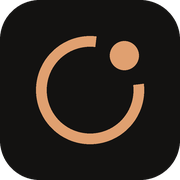
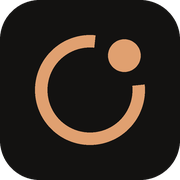
brand: heavier ≥64 px weights (stroke 7, dot 9) so the home-screen tile matches the header lockup

diff --git a/brand/contact-sheet.html b/brand/contact-sheet.html
@@ -20,5 +20,5 @@
 <body>
 <h1>Mote - logo candidates</h1>
 <table><thead><tr><th></th><th scope="col">light</th><th scope="col">32</th><th scope="col">16</th><th scope="col">dark</th><th scope="col">32</th><th scope="col">16</th></tr></thead>
-<tbody><tr><th scope="row">the studio's serif m (current icon)</th><td><svg viewBox="0 0 100 100" width="96" height="96" aria-hidden="true" style="background:#faf9f7;color:#a34a1f;border-radius:21px"><text x="50" y="50" font-family="Georgia,&apos;Times New Roman&apos;,serif" font-size="74" text-anchor="middle" dominant-baseline="central" fill="currentColor">m</text></svg></td><td><svg viewBox="0 0 100 100" width="32" height="32" aria-hidden="true" style="background:#faf9f7;color:#a34a1f;border-radius:7px"><text x="50" y="50" font-family="Georgia,&apos;Times New Roman&apos;,serif" font-size="74" text-anchor="middle" dominant-baseline="central" fill="currentColor">m</text></svg></td><td><svg viewBox="0 0 100 100" width="16" height="16" aria-hidden="true" style="background:#faf9f7;color:#a34a1f;border-radius:4px"><text x="50" y="50" font-family="Georgia,&apos;Times New Roman&apos;,serif" font-size="74" text-anchor="middle" dominant-baseline="central" fill="currentColor">m</text></svg></td><td><svg viewBox="0 0 100 100" width="96" height="96" aria-hidden="true" style="background:#131211;color:#e0a070;border-radius:21px"><text x="50" y="50" font-family="Georgia,&apos;Times New Roman&apos;,serif" font-size="74" text-anchor="middle" dominant-baseline="central" fill="currentColor">m</text></svg></td><td><svg viewBox="0 0 100 100" width="32" height="32" aria-hidden="true" style="background:#131211;color:#e0a070;border-radius:7px"><text x="50" y="50" font-family="Georgia,&apos;Times New Roman&apos;,serif" font-size="74" text-anchor="middle" dominant-baseline="central" fill="currentColor">m</text></svg></td><td><svg viewBox="0 0 100 100" width="16" height="16" aria-hidden="true" style="background:#131211;color:#e0a070;border-radius:4px"><text x="50" y="50" font-family="Georgia,&apos;Times New Roman&apos;,serif" font-size="74" text-anchor="middle" dominant-baseline="central" fill="currentColor">m</text></svg></td></tr><tr><th scope="row">the mote</th><td><svg viewBox="0 0 100 100" width="96" height="96" aria-hidden="true" style="background:#faf9f7;color:#a34a1f;border-radius:21px"><circle cx="50" cy="50" r="14" fill="currentColor"/></svg></td><td><svg viewBox="0 0 100 100" width="32" height="32" aria-hidden="true" style="background:#faf9f7;color:#a34a1f;border-radius:7px"><circle cx="50" cy="50" r="14" fill="currentColor"/></svg></td><td><svg viewBox="0 0 100 100" width="16" height="16" aria-hidden="true" style="background:#faf9f7;color:#a34a1f;border-radius:4px"><circle cx="50" cy="50" r="14" fill="currentColor"/></svg></td><td><svg viewBox="0 0 100 100" width="96" height="96" aria-hidden="true" style="background:#131211;color:#e0a070;border-radius:21px"><circle cx="50" cy="50" r="14" fill="currentColor"/></svg></td><td><svg viewBox="0 0 100 100" width="32" height="32" aria-hidden="true" style="background:#131211;color:#e0a070;border-radius:7px"><circle cx="50" cy="50" r="14" fill="currentColor"/></svg></td><td><svg viewBox="0 0 100 100" width="16" height="16" aria-hidden="true" style="background:#131211;color:#e0a070;border-radius:4px"><circle cx="50" cy="50" r="14" fill="currentColor"/></svg></td></tr><tr><th scope="row">the boundary ring (adopted)</th><td><svg viewBox="0 0 100 100" width="96" height="96" aria-hidden="true" style="background:#faf9f7;color:#a34a1f;border-radius:21px"><circle cx="50" cy="50" r="27" fill="none" stroke="currentColor" stroke-width="6" stroke-dasharray="133.65 36.00" stroke-dashoffset="151.65" transform="rotate(-45 50 50)"/><circle cx="69.09" cy="30.91" r="8" fill="currentColor"/></svg></td><td><svg viewBox="0 0 100 100" width="32" height="32" aria-hidden="true" style="background:#faf9f7;color:#a34a1f;border-radius:7px"><circle cx="50" cy="50" r="27" fill="none" stroke="currentColor" stroke-width="8" stroke-dasharray="131.65 38.00" stroke-dashoffset="150.65" transform="rotate(-45 50 50)"/><circle cx="69.09" cy="30.91" r="9.5" fill="currentColor"/></svg></td><td><svg viewBox="0 0 100 100" width="16" height="16" aria-hidden="true" style="background:#faf9f7;color:#a34a1f;border-radius:4px"><circle cx="50" cy="50" r="27" fill="none" stroke="currentColor" stroke-width="11" stroke-dasharray="127.65 42.00" stroke-dashoffset="148.65" transform="rotate(-45 50 50)"/><circle cx="69.09" cy="30.91" r="11" fill="currentColor"/></svg></td><td><svg viewBox="0 0 100 100" width="96" height="96" aria-hidden="true" style="background:#131211;color:#e0a070;border-radius:21px"><circle cx="50" cy="50" r="27" fill="none" stroke="currentColor" stroke-width="6" stroke-dasharray="133.65 36.00" stroke-dashoffset="151.65" transform="rotate(-45 50 50)"/><circle cx="69.09" cy="30.91" r="8" fill="currentColor"/></svg></td><td><svg viewBox="0 0 100 100" width="32" height="32" aria-hidden="true" style="background:#131211;color:#e0a070;border-radius:7px"><circle cx="50" cy="50" r="27" fill="none" stroke="currentColor" stroke-width="8" stroke-dasharray="131.65 38.00" stroke-dashoffset="150.65" transform="rotate(-45 50 50)"/><circle cx="69.09" cy="30.91" r="9.5" fill="currentColor"/></svg></td><td><svg viewBox="0 0 100 100" width="16" height="16" aria-hidden="true" style="background:#131211;color:#e0a070;border-radius:4px"><circle cx="50" cy="50" r="27" fill="none" stroke="currentColor" stroke-width="11" stroke-dasharray="127.65 42.00" stroke-dashoffset="148.65" transform="rotate(-45 50 50)"/><circle cx="69.09" cy="30.91" r="11" fill="currentColor"/></svg></td></tr><tr><th scope="row">the break</th><td><svg viewBox="0 0 100 100" width="96" height="96" aria-hidden="true" style="background:#faf9f7;color:#a34a1f;border-radius:21px"><path d="M12 50 H34" fill="none" stroke="currentColor" stroke-width="6" stroke-linecap="round"/><circle cx="50" cy="50" r="10.5" fill="currentColor"/><path d="M66 50 H88" fill="none" stroke="currentColor" stroke-width="6" stroke-linecap="round"/></svg></td><td><svg viewBox="0 0 100 100" width="32" height="32" aria-hidden="true" style="background:#faf9f7;color:#a34a1f;border-radius:7px"><path d="M12 50 H34" fill="none" stroke="currentColor" stroke-width="6" stroke-linecap="round"/><circle cx="50" cy="50" r="10.5" fill="currentColor"/><path d="M66 50 H88" fill="none" stroke="currentColor" stroke-width="6" stroke-linecap="round"/></svg></td><td><svg viewBox="0 0 100 100" width="16" height="16" aria-hidden="true" style="background:#faf9f7;color:#a34a1f;border-radius:4px"><path d="M12 50 H34" fill="none" stroke="currentColor" stroke-width="6" stroke-linecap="round"/><circle cx="50" cy="50" r="10.5" fill="currentColor"/><path d="M66 50 H88" fill="none" stroke="currentColor" stroke-width="6" stroke-linecap="round"/></svg></td><td><svg viewBox="0 0 100 100" width="96" height="96" aria-hidden="true" style="background:#131211;color:#e0a070;border-radius:21px"><path d="M12 50 H34" fill="none" stroke="currentColor" stroke-width="6" stroke-linecap="round"/><circle cx="50" cy="50" r="10.5" fill="currentColor"/><path d="M66 50 H88" fill="none" stroke="currentColor" stroke-width="6" stroke-linecap="round"/></svg></td><td><svg viewBox="0 0 100 100" width="32" height="32" aria-hidden="true" style="background:#131211;color:#e0a070;border-radius:7px"><path d="M12 50 H34" fill="none" stroke="currentColor" stroke-width="6" stroke-linecap="round"/><circle cx="50" cy="50" r="10.5" fill="currentColor"/><path d="M66 50 H88" fill="none" stroke="currentColor" stroke-width="6" stroke-linecap="round"/></svg></td><td><svg viewBox="0 0 100 100" width="16" height="16" aria-hidden="true" style="background:#131211;color:#e0a070;border-radius:4px"><path d="M12 50 H34" fill="none" stroke="currentColor" stroke-width="6" stroke-linecap="round"/><circle cx="50" cy="50" r="10.5" fill="currentColor"/><path d="M66 50 H88" fill="none" stroke="currentColor" stroke-width="6" stroke-linecap="round"/></svg></td></tr><tr><th scope="row">0x6D</th><td><svg viewBox="0 0 100 100" width="96" height="96" aria-hidden="true" style="background:#faf9f7;color:#a34a1f;border-radius:21px"><rect x="9" y="31" width="16" height="16" rx="4" fill="currentColor" fill-opacity="0.16"/><rect x="31" y="31" width="16" height="16" rx="4" fill="currentColor"/><rect x="53" y="31" width="16" height="16" rx="4" fill="currentColor"/><rect x="75" y="31" width="16" height="16" rx="4" fill="currentColor" fill-opacity="0.16"/><rect x="9" y="53" width="16" height="16" rx="4" fill="currentColor"/><rect x="31" y="53" width="16" height="16" rx="4" fill="currentColor"/><rect x="53" y="53" width="16" height="16" rx="4" fill="currentColor" fill-opacity="0.16"/><rect x="75" y="53" width="16" height="16" rx="4" fill="currentColor"/></svg></td><td><svg viewBox="0 0 100 100" width="32" height="32" aria-hidden="true" style="background:#faf9f7;color:#a34a1f;border-radius:7px"><rect x="9" y="31" width="16" height="16" rx="4" fill="currentColor" fill-opacity="0.16"/><rect x="31" y="31" width="16" height="16" rx="4" fill="currentColor"/><rect x="53" y="31" width="16" height="16" rx="4" fill="currentColor"/><rect x="75" y="31" width="16" height="16" rx="4" fill="currentColor" fill-opacity="0.16"/><rect x="9" y="53" width="16" height="16" rx="4" fill="currentColor"/><rect x="31" y="53" width="16" height="16" rx="4" fill="currentColor"/><rect x="53" y="53" width="16" height="16" rx="4" fill="currentColor" fill-opacity="0.16"/><rect x="75" y="53" width="16" height="16" rx="4" fill="currentColor"/></svg></td><td><svg viewBox="0 0 100 100" width="16" height="16" aria-hidden="true" style="background:#faf9f7;color:#a34a1f;border-radius:4px"><rect x="9" y="31" width="16" height="16" rx="4" fill="currentColor" fill-opacity="0.16"/><rect x="31" y="31" width="16" height="16" rx="4" fill="currentColor"/><rect x="53" y="31" width="16" height="16" rx="4" fill="currentColor"/><rect x="75" y="31" width="16" height="16" rx="4" fill="currentColor" fill-opacity="0.16"/><rect x="9" y="53" width="16" height="16" rx="4" fill="currentColor"/><rect x="31" y="53" width="16" height="16" rx="4" fill="currentColor"/><rect x="53" y="53" width="16" height="16" rx="4" fill="currentColor" fill-opacity="0.16"/><rect x="75" y="53" width="16" height="16" rx="4" fill="currentColor"/></svg></td><td><svg viewBox="0 0 100 100" width="96" height="96" aria-hidden="true" style="background:#131211;color:#e0a070;border-radius:21px"><rect x="9" y="31" width="16" height="16" rx="4" fill="currentColor" fill-opacity="0.16"/><rect x="31" y="31" width="16" height="16" rx="4" fill="currentColor"/><rect x="53" y="31" width="16" height="16" rx="4" fill="currentColor"/><rect x="75" y="31" width="16" height="16" rx="4" fill="currentColor" fill-opacity="0.16"/><rect x="9" y="53" width="16" height="16" rx="4" fill="currentColor"/><rect x="31" y="53" width="16" height="16" rx="4" fill="currentColor"/><rect x="53" y="53" width="16" height="16" rx="4" fill="currentColor" fill-opacity="0.16"/><rect x="75" y="53" width="16" height="16" rx="4" fill="currentColor"/></svg></td><td><svg viewBox="0 0 100 100" width="32" height="32" aria-hidden="true" style="background:#131211;color:#e0a070;border-radius:7px"><rect x="9" y="31" width="16" height="16" rx="4" fill="currentColor" fill-opacity="0.16"/><rect x="31" y="31" width="16" height="16" rx="4" fill="currentColor"/><rect x="53" y="31" width="16" height="16" rx="4" fill="currentColor"/><rect x="75" y="31" width="16" height="16" rx="4" fill="currentColor" fill-opacity="0.16"/><rect x="9" y="53" width="16" height="16" rx="4" fill="currentColor"/><rect x="31" y="53" width="16" height="16" rx="4" fill="currentColor"/><rect x="53" y="53" width="16" height="16" rx="4" fill="currentColor" fill-opacity="0.16"/><rect x="75" y="53" width="16" height="16" rx="4" fill="currentColor"/></svg></td><td><svg viewBox="0 0 100 100" width="16" height="16" aria-hidden="true" style="background:#131211;color:#e0a070;border-radius:4px"><rect x="9" y="31" width="16" height="16" rx="4" fill="currentColor" fill-opacity="0.16"/><rect x="31" y="31" width="16" height="16" rx="4" fill="currentColor"/><rect x="53" y="31" width="16" height="16" rx="4" fill="currentColor"/><rect x="75" y="31" width="16" height="16" rx="4" fill="currentColor" fill-opacity="0.16"/><rect x="9" y="53" width="16" height="16" rx="4" fill="currentColor"/><rect x="31" y="53" width="16" height="16" rx="4" fill="currentColor"/><rect x="53" y="53" width="16" height="16" rx="4" fill="currentColor" fill-opacity="0.16"/><rect x="75" y="53" width="16" height="16" rx="4" fill="currentColor"/></svg></td></tr></tbody></table>
+<tbody><tr><th scope="row">the studio's serif m (current icon)</th><td><svg viewBox="0 0 100 100" width="96" height="96" aria-hidden="true" style="background:#faf9f7;color:#a34a1f;border-radius:21px"><text x="50" y="50" font-family="Georgia,&apos;Times New Roman&apos;,serif" font-size="74" text-anchor="middle" dominant-baseline="central" fill="currentColor">m</text></svg></td><td><svg viewBox="0 0 100 100" width="32" height="32" aria-hidden="true" style="background:#faf9f7;color:#a34a1f;border-radius:7px"><text x="50" y="50" font-family="Georgia,&apos;Times New Roman&apos;,serif" font-size="74" text-anchor="middle" dominant-baseline="central" fill="currentColor">m</text></svg></td><td><svg viewBox="0 0 100 100" width="16" height="16" aria-hidden="true" style="background:#faf9f7;color:#a34a1f;border-radius:4px"><text x="50" y="50" font-family="Georgia,&apos;Times New Roman&apos;,serif" font-size="74" text-anchor="middle" dominant-baseline="central" fill="currentColor">m</text></svg></td><td><svg viewBox="0 0 100 100" width="96" height="96" aria-hidden="true" style="background:#131211;color:#e0a070;border-radius:21px"><text x="50" y="50" font-family="Georgia,&apos;Times New Roman&apos;,serif" font-size="74" text-anchor="middle" dominant-baseline="central" fill="currentColor">m</text></svg></td><td><svg viewBox="0 0 100 100" width="32" height="32" aria-hidden="true" style="background:#131211;color:#e0a070;border-radius:7px"><text x="50" y="50" font-family="Georgia,&apos;Times New Roman&apos;,serif" font-size="74" text-anchor="middle" dominant-baseline="central" fill="currentColor">m</text></svg></td><td><svg viewBox="0 0 100 100" width="16" height="16" aria-hidden="true" style="background:#131211;color:#e0a070;border-radius:4px"><text x="50" y="50" font-family="Georgia,&apos;Times New Roman&apos;,serif" font-size="74" text-anchor="middle" dominant-baseline="central" fill="currentColor">m</text></svg></td></tr><tr><th scope="row">the mote</th><td><svg viewBox="0 0 100 100" width="96" height="96" aria-hidden="true" style="background:#faf9f7;color:#a34a1f;border-radius:21px"><circle cx="50" cy="50" r="14" fill="currentColor"/></svg></td><td><svg viewBox="0 0 100 100" width="32" height="32" aria-hidden="true" style="background:#faf9f7;color:#a34a1f;border-radius:7px"><circle cx="50" cy="50" r="14" fill="currentColor"/></svg></td><td><svg viewBox="0 0 100 100" width="16" height="16" aria-hidden="true" style="background:#faf9f7;color:#a34a1f;border-radius:4px"><circle cx="50" cy="50" r="14" fill="currentColor"/></svg></td><td><svg viewBox="0 0 100 100" width="96" height="96" aria-hidden="true" style="background:#131211;color:#e0a070;border-radius:21px"><circle cx="50" cy="50" r="14" fill="currentColor"/></svg></td><td><svg viewBox="0 0 100 100" width="32" height="32" aria-hidden="true" style="background:#131211;color:#e0a070;border-radius:7px"><circle cx="50" cy="50" r="14" fill="currentColor"/></svg></td><td><svg viewBox="0 0 100 100" width="16" height="16" aria-hidden="true" style="background:#131211;color:#e0a070;border-radius:4px"><circle cx="50" cy="50" r="14" fill="currentColor"/></svg></td></tr><tr><th scope="row">the boundary ring (adopted)</th><td><svg viewBox="0 0 100 100" width="96" height="96" aria-hidden="true" style="background:#faf9f7;color:#a34a1f;border-radius:21px"><circle cx="50" cy="50" r="27" fill="none" stroke="currentColor" stroke-width="7" stroke-dasharray="132.65 37.00" stroke-dashoffset="151.15" transform="rotate(-45 50 50)"/><circle cx="69.09" cy="30.91" r="9" fill="currentColor"/></svg></td><td><svg viewBox="0 0 100 100" width="32" height="32" aria-hidden="true" style="background:#faf9f7;color:#a34a1f;border-radius:7px"><circle cx="50" cy="50" r="27" fill="none" stroke="currentColor" stroke-width="8" stroke-dasharray="131.65 38.00" stroke-dashoffset="150.65" transform="rotate(-45 50 50)"/><circle cx="69.09" cy="30.91" r="9.5" fill="currentColor"/></svg></td><td><svg viewBox="0 0 100 100" width="16" height="16" aria-hidden="true" style="background:#faf9f7;color:#a34a1f;border-radius:4px"><circle cx="50" cy="50" r="27" fill="none" stroke="currentColor" stroke-width="11" stroke-dasharray="127.65 42.00" stroke-dashoffset="148.65" transform="rotate(-45 50 50)"/><circle cx="69.09" cy="30.91" r="11" fill="currentColor"/></svg></td><td><svg viewBox="0 0 100 100" width="96" height="96" aria-hidden="true" style="background:#131211;color:#e0a070;border-radius:21px"><circle cx="50" cy="50" r="27" fill="none" stroke="currentColor" stroke-width="7" stroke-dasharray="132.65 37.00" stroke-dashoffset="151.15" transform="rotate(-45 50 50)"/><circle cx="69.09" cy="30.91" r="9" fill="currentColor"/></svg></td><td><svg viewBox="0 0 100 100" width="32" height="32" aria-hidden="true" style="background:#131211;color:#e0a070;border-radius:7px"><circle cx="50" cy="50" r="27" fill="none" stroke="currentColor" stroke-width="8" stroke-dasharray="131.65 38.00" stroke-dashoffset="150.65" transform="rotate(-45 50 50)"/><circle cx="69.09" cy="30.91" r="9.5" fill="currentColor"/></svg></td><td><svg viewBox="0 0 100 100" width="16" height="16" aria-hidden="true" style="background:#131211;color:#e0a070;border-radius:4px"><circle cx="50" cy="50" r="27" fill="none" stroke="currentColor" stroke-width="11" stroke-dasharray="127.65 42.00" stroke-dashoffset="148.65" transform="rotate(-45 50 50)"/><circle cx="69.09" cy="30.91" r="11" fill="currentColor"/></svg></td></tr><tr><th scope="row">the break</th><td><svg viewBox="0 0 100 100" width="96" height="96" aria-hidden="true" style="background:#faf9f7;color:#a34a1f;border-radius:21px"><path d="M12 50 H34" fill="none" stroke="currentColor" stroke-width="6" stroke-linecap="round"/><circle cx="50" cy="50" r="10.5" fill="currentColor"/><path d="M66 50 H88" fill="none" stroke="currentColor" stroke-width="6" stroke-linecap="round"/></svg></td><td><svg viewBox="0 0 100 100" width="32" height="32" aria-hidden="true" style="background:#faf9f7;color:#a34a1f;border-radius:7px"><path d="M12 50 H34" fill="none" stroke="currentColor" stroke-width="6" stroke-linecap="round"/><circle cx="50" cy="50" r="10.5" fill="currentColor"/><path d="M66 50 H88" fill="none" stroke="currentColor" stroke-width="6" stroke-linecap="round"/></svg></td><td><svg viewBox="0 0 100 100" width="16" height="16" aria-hidden="true" style="background:#faf9f7;color:#a34a1f;border-radius:4px"><path d="M12 50 H34" fill="none" stroke="currentColor" stroke-width="6" stroke-linecap="round"/><circle cx="50" cy="50" r="10.5" fill="currentColor"/><path d="M66 50 H88" fill="none" stroke="currentColor" stroke-width="6" stroke-linecap="round"/></svg></td><td><svg viewBox="0 0 100 100" width="96" height="96" aria-hidden="true" style="background:#131211;color:#e0a070;border-radius:21px"><path d="M12 50 H34" fill="none" stroke="currentColor" stroke-width="6" stroke-linecap="round"/><circle cx="50" cy="50" r="10.5" fill="currentColor"/><path d="M66 50 H88" fill="none" stroke="currentColor" stroke-width="6" stroke-linecap="round"/></svg></td><td><svg viewBox="0 0 100 100" width="32" height="32" aria-hidden="true" style="background:#131211;color:#e0a070;border-radius:7px"><path d="M12 50 H34" fill="none" stroke="currentColor" stroke-width="6" stroke-linecap="round"/><circle cx="50" cy="50" r="10.5" fill="currentColor"/><path d="M66 50 H88" fill="none" stroke="currentColor" stroke-width="6" stroke-linecap="round"/></svg></td><td><svg viewBox="0 0 100 100" width="16" height="16" aria-hidden="true" style="background:#131211;color:#e0a070;border-radius:4px"><path d="M12 50 H34" fill="none" stroke="currentColor" stroke-width="6" stroke-linecap="round"/><circle cx="50" cy="50" r="10.5" fill="currentColor"/><path d="M66 50 H88" fill="none" stroke="currentColor" stroke-width="6" stroke-linecap="round"/></svg></td></tr><tr><th scope="row">0x6D</th><td><svg viewBox="0 0 100 100" width="96" height="96" aria-hidden="true" style="background:#faf9f7;color:#a34a1f;border-radius:21px"><rect x="9" y="31" width="16" height="16" rx="4" fill="currentColor" fill-opacity="0.16"/><rect x="31" y="31" width="16" height="16" rx="4" fill="currentColor"/><rect x="53" y="31" width="16" height="16" rx="4" fill="currentColor"/><rect x="75" y="31" width="16" height="16" rx="4" fill="currentColor" fill-opacity="0.16"/><rect x="9" y="53" width="16" height="16" rx="4" fill="currentColor"/><rect x="31" y="53" width="16" height="16" rx="4" fill="currentColor"/><rect x="53" y="53" width="16" height="16" rx="4" fill="currentColor" fill-opacity="0.16"/><rect x="75" y="53" width="16" height="16" rx="4" fill="currentColor"/></svg></td><td><svg viewBox="0 0 100 100" width="32" height="32" aria-hidden="true" style="background:#faf9f7;color:#a34a1f;border-radius:7px"><rect x="9" y="31" width="16" height="16" rx="4" fill="currentColor" fill-opacity="0.16"/><rect x="31" y="31" width="16" height="16" rx="4" fill="currentColor"/><rect x="53" y="31" width="16" height="16" rx="4" fill="currentColor"/><rect x="75" y="31" width="16" height="16" rx="4" fill="currentColor" fill-opacity="0.16"/><rect x="9" y="53" width="16" height="16" rx="4" fill="currentColor"/><rect x="31" y="53" width="16" height="16" rx="4" fill="currentColor"/><rect x="53" y="53" width="16" height="16" rx="4" fill="currentColor" fill-opacity="0.16"/><rect x="75" y="53" width="16" height="16" rx="4" fill="currentColor"/></svg></td><td><svg viewBox="0 0 100 100" width="16" height="16" aria-hidden="true" style="background:#faf9f7;color:#a34a1f;border-radius:4px"><rect x="9" y="31" width="16" height="16" rx="4" fill="currentColor" fill-opacity="0.16"/><rect x="31" y="31" width="16" height="16" rx="4" fill="currentColor"/><rect x="53" y="31" width="16" height="16" rx="4" fill="currentColor"/><rect x="75" y="31" width="16" height="16" rx="4" fill="currentColor" fill-opacity="0.16"/><rect x="9" y="53" width="16" height="16" rx="4" fill="currentColor"/><rect x="31" y="53" width="16" height="16" rx="4" fill="currentColor"/><rect x="53" y="53" width="16" height="16" rx="4" fill="currentColor" fill-opacity="0.16"/><rect x="75" y="53" width="16" height="16" rx="4" fill="currentColor"/></svg></td><td><svg viewBox="0 0 100 100" width="96" height="96" aria-hidden="true" style="background:#131211;color:#e0a070;border-radius:21px"><rect x="9" y="31" width="16" height="16" rx="4" fill="currentColor" fill-opacity="0.16"/><rect x="31" y="31" width="16" height="16" rx="4" fill="currentColor"/><rect x="53" y="31" width="16" height="16" rx="4" fill="currentColor"/><rect x="75" y="31" width="16" height="16" rx="4" fill="currentColor" fill-opacity="0.16"/><rect x="9" y="53" width="16" height="16" rx="4" fill="currentColor"/><rect x="31" y="53" width="16" height="16" rx="4" fill="currentColor"/><rect x="53" y="53" width="16" height="16" rx="4" fill="currentColor" fill-opacity="0.16"/><rect x="75" y="53" width="16" height="16" rx="4" fill="currentColor"/></svg></td><td><svg viewBox="0 0 100 100" width="32" height="32" aria-hidden="true" style="background:#131211;color:#e0a070;border-radius:7px"><rect x="9" y="31" width="16" height="16" rx="4" fill="currentColor" fill-opacity="0.16"/><rect x="31" y="31" width="16" height="16" rx="4" fill="currentColor"/><rect x="53" y="31" width="16" height="16" rx="4" fill="currentColor"/><rect x="75" y="31" width="16" height="16" rx="4" fill="currentColor" fill-opacity="0.16"/><rect x="9" y="53" width="16" height="16" rx="4" fill="currentColor"/><rect x="31" y="53" width="16" height="16" rx="4" fill="currentColor"/><rect x="53" y="53" width="16" height="16" rx="4" fill="currentColor" fill-opacity="0.16"/><rect x="75" y="53" width="16" height="16" rx="4" fill="currentColor"/></svg></td><td><svg viewBox="0 0 100 100" width="16" height="16" aria-hidden="true" style="background:#131211;color:#e0a070;border-radius:4px"><rect x="9" y="31" width="16" height="16" rx="4" fill="currentColor" fill-opacity="0.16"/><rect x="31" y="31" width="16" height="16" rx="4" fill="currentColor"/><rect x="53" y="31" width="16" height="16" rx="4" fill="currentColor"/><rect x="75" y="31" width="16" height="16" rx="4" fill="currentColor" fill-opacity="0.16"/><rect x="9" y="53" width="16" height="16" rx="4" fill="currentColor"/><rect x="31" y="53" width="16" height="16" rx="4" fill="currentColor"/><rect x="53" y="53" width="16" height="16" rx="4" fill="currentColor" fill-opacity="0.16"/><rect x="75" y="53" width="16" height="16" rx="4" fill="currentColor"/></svg></td></tr></tbody></table>
 </body></html>

diff --git a/brand/build.py b/brand/build.py
@@ -44,7 +44,7 @@ RING_C = 2 * math.pi * RING_R
 def ring_params(px):
     """(stroke width, dot radius, gap arc length) in design units for a tile rendered `px` wide."""
     if px is None or px >= 64:
-        return 6.0, 8.0, 36.0
+        return 7.0, 9.0, 37.0
     if px >= 32:
         return 8.0, 9.5, 38.0
     return 11.0, 11.0, 42.0

diff --git a/brand/README.md b/brand/README.md
@@ -2,7 +2,7 @@
 
 **Adopted (2026-08-23): `boundary-ring`**, with two changes from the candidate below — the gap is
 turned to half past one (at twelve, with something in it, it is the power glyph), and the stroke,
-dot and gap grow as the tile shrinks (`ring_params` in `build.py`: 6/8/36 design units at ≥64 px,
+dot and gap grow as the tile shrinks (`ring_params` in `build.py`: 7/9/37 design units at ≥64 px,
 8/9.5/38 at 32 px, 11/11/42 at 16 px) instead of scaling the 512 down to a hairline. The mark is
 defined once, in `build.py`; `web/icons/make_icons.py` imports it for the app icons and
 `favicon.svg`, and the header (`Wordmark.svelte`) and pairing page carry the 32-px SVG body.
